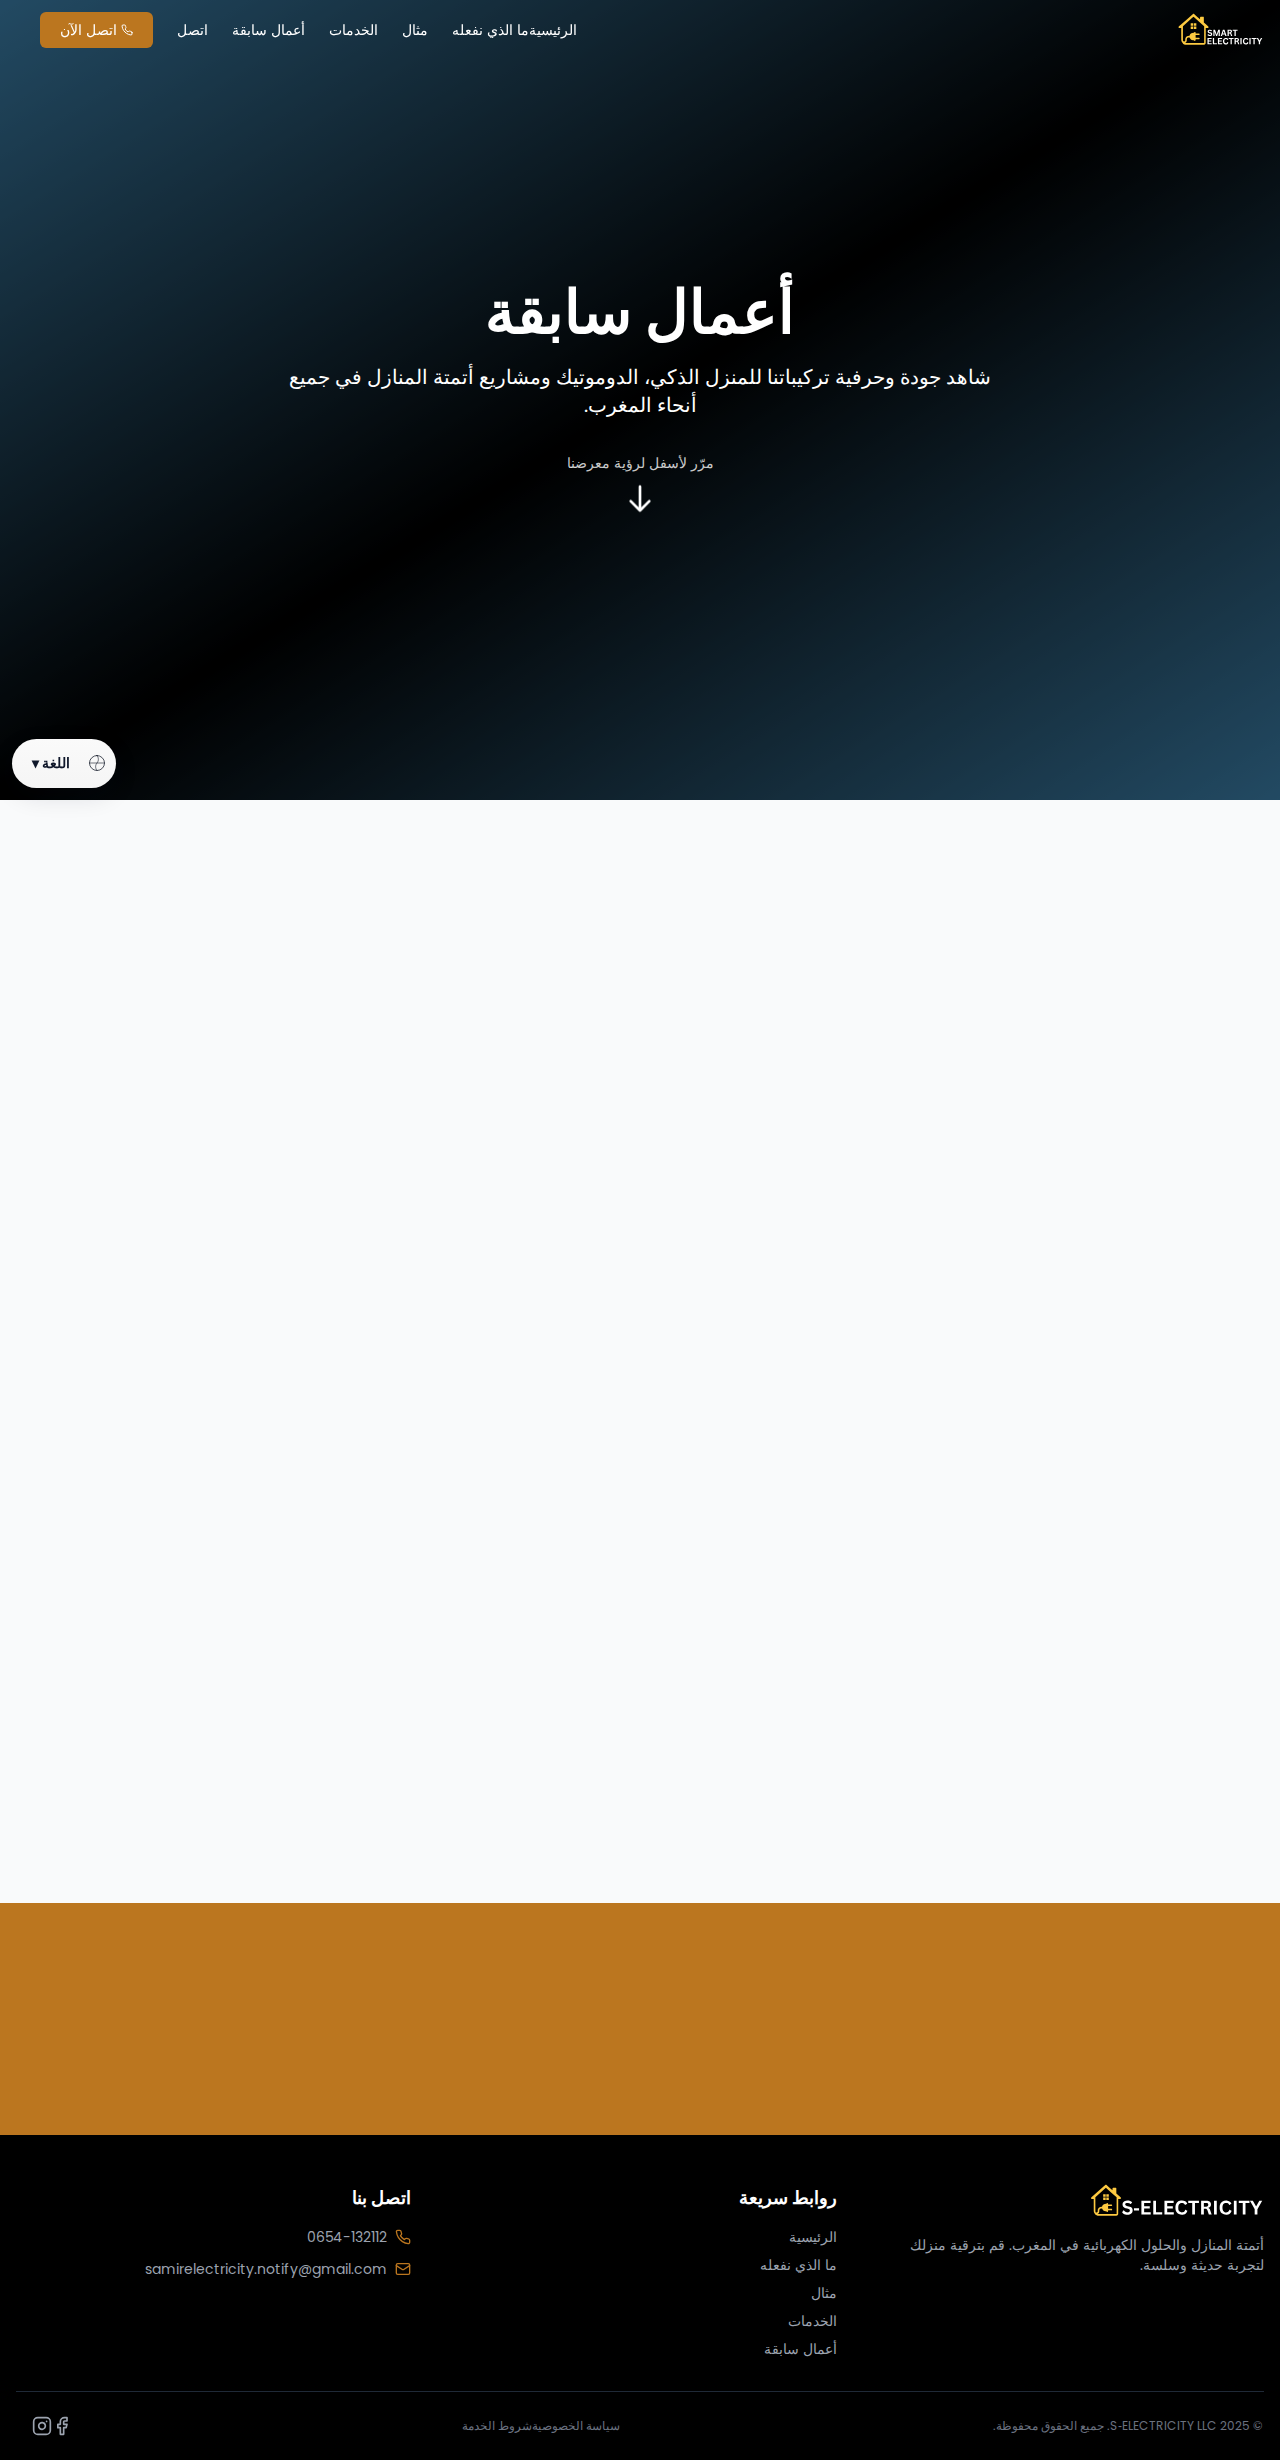
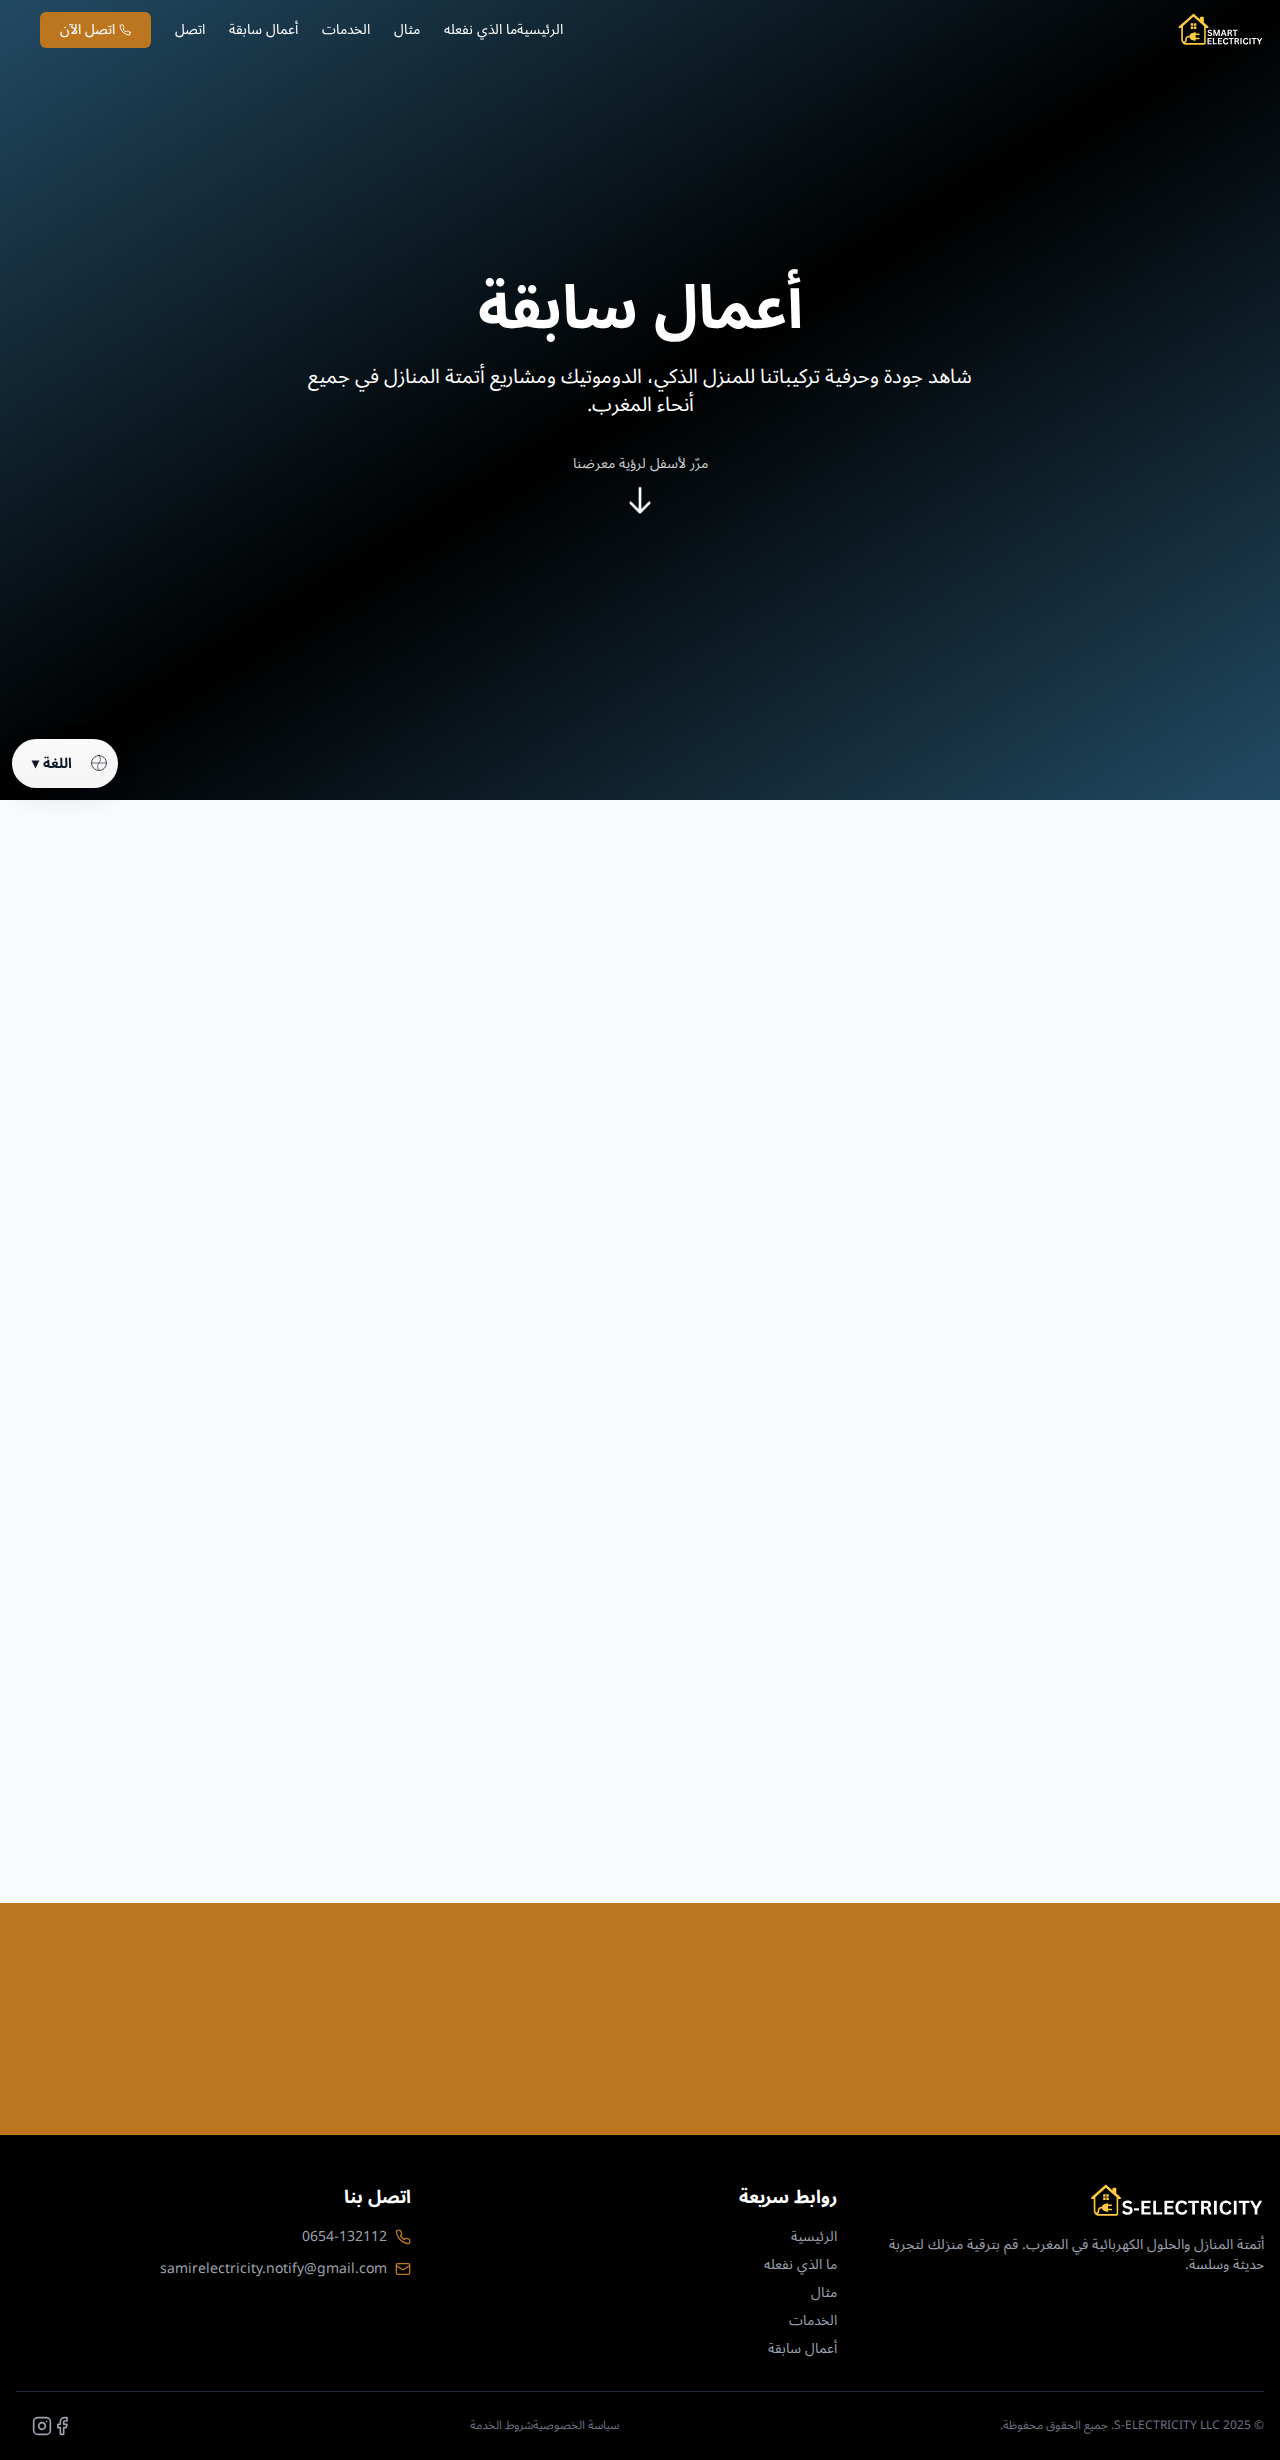
fix: resolve Arabic localization and RTL layout issues
- Complete translation of ar.json.
- Add Noto Sans Arabic font and CSS overrides for RTL.
- Enhance localization script for SEO and sitemap generation.
- Fix layout overlapping in Arabic version.
- Ensure consistent language switcher labels across all templates.

diff --git a/ar/previous-work.html b/ar/previous-work.html
@@ -103,7 +103,7 @@
   </head>
   <body>
     <div class="lang-switch" aria-hidden="false">
-      <label for="langSelectPW" class="visually-hidden">Language</label>
+      <label for="langSelectPW" class="visually-hidden">اللغة</label>
       <span class="lang-globe" aria-hidden="true">
         <svg width="18" height="18" viewBox="0 0 24 24" fill="none" xmlns="http://www.w3.org/2000/svg" aria-hidden="true">
           <path d="M12 2a10 10 0 1 0 0 20 10 10 0 0 0 0-20z" stroke="#111827" stroke-width="1" stroke-linecap="round" stroke-linejoin="round" fill="none"/>

diff --git a/fr/previous-work.html b/fr/previous-work.html
@@ -103,7 +103,7 @@
   </head>
   <body>
     <div class="lang-switch" aria-hidden="false">
-      <label for="langSelectPW" class="visually-hidden">Language</label>
+      <label for="langSelectPW" class="visually-hidden">Langue</label>
       <span class="lang-globe" aria-hidden="true">
         <svg width="18" height="18" viewBox="0 0 24 24" fill="none" xmlns="http://www.w3.org/2000/svg" aria-hidden="true">
           <path d="M12 2a10 10 0 1 0 0 20 10 10 0 0 0 0-20z" stroke="#111827" stroke-width="1" stroke-linecap="round" stroke-linejoin="round" fill="none"/>

diff --git a/scripts/generate_localized.py b/scripts/generate_localized.py
@@ -141,8 +141,8 @@ def replace_body_static(html, dict_l, lang):
     # We look for the specific buttons by ID to be safe
     html = re.sub(r'(<button id="langDesktopBtn"[^>]*>)\s*Language ▾\s*(</button>)', fr'\1{word} ▾\2', html)
     html = re.sub(r'(<button id="langToggleBtn"[^>]*>)\s*Language\s*(</button>)', fr'\1{word}\2', html)
-    # And the visually hidden label (for index.html and 404.html)
-    html = re.sub(r'(<label for="langSelect(?:404)?" class="visually-hidden">)Language(</label>)', fr'\1{word}\2', html)
+    # And the visually hidden label (for index.html, 404.html, and previous-work.html)
+    html = re.sub(r'(<label for="langSelect[^"]*" class="visually-hidden">)Language(</label>)', fr'\1{word}\2', html)
 
     return html
 
